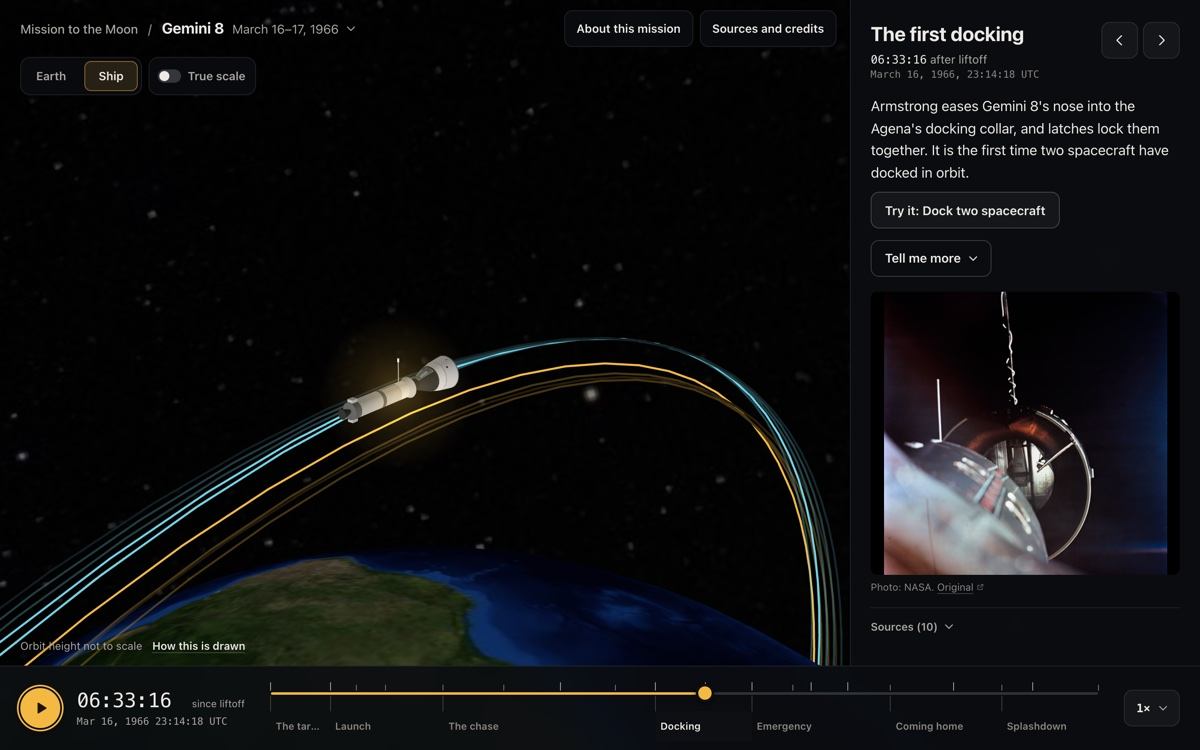
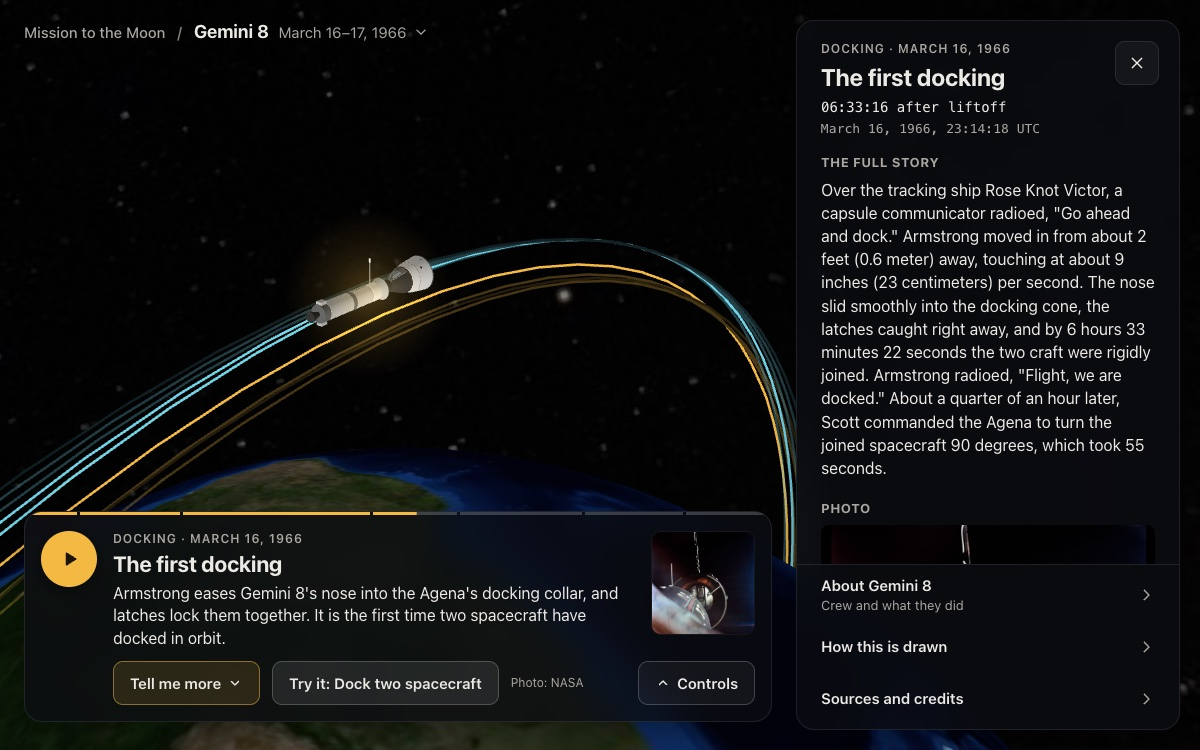
Retake the README screenshots with the new interface
The screenshots in the README still showed the interface as it was before
the moment card: the event sheet at the side, the timeline bar, and the
view buttons always on the screen. All seven are taken again from the
current site, at the same sizes.

The four in "About" now show the four states of a flight: the landing
with the card as it opens (the large one), the first screen, "Tell me
more" open on Gemini 8's docking, and Controls open on Apollo 11's way to
the Moon. The first screen takes the place of the liftoff picture. The
three under "Things to try" show the same screens as before, in the
sheet's current layout.

Changed region(s): [[0.0, 0.0307, 0.9867, 1.0], [0.0, 0.0307, 0.3392, 0.1227], [0.925, 0.92, 0.9558, 0.9507]]

diff --git a/README.md b/README.md
@@ -16,7 +16,7 @@
   <a href="DEVELOPING.md">Developing</a>
 </p>
 
-<p align="center"><a href="https://moon.ryanquellhorst.com/?mission=apollo-11&amp;t=102:45:40&amp;view=spacecraft"><img src="docs/images/apollo-11-landing.jpg" alt="Apollo 11 at the moment of landing: the lunar module Eagle sits on the Moon at the end of its descent path, the clock reads 102:45:40 since liftoff, and the card beside it carries the recording and the words of &quot;The Eagle has landed&quot;." width="888"></a></p>
+<p align="center"><a href="https://moon.ryanquellhorst.com/?mission=apollo-11&amp;t=102:45:40&amp;view=spacecraft"><img src="docs/images/apollo-11-landing.jpg" alt="Apollo 11 at the moment of landing: the lunar module Eagle sits on the Moon at the end of its descent path, and the card under it tells the moment, &quot;The Eagle has landed&quot;, with a button to hear the recording and the doors to Tell me more and Controls." width="888"></a></p>
 
 ## About
 
@@ -46,9 +46,9 @@ flight you haven't flown. **More to explore** adds one pick from each shelf: tha
 something to try, and something to explore.
 
 <p align="center">
-  <img src="docs/images/apollo-11-liftoff.jpg" alt="Apollo 11 two minutes after liftoff, with the Saturn V climbing away from Florida." width="32%">
-  <img src="docs/images/apollo-11-journey.jpg" alt="Apollo 11 sixty hours in, with the whole path from Earth to the Moon and back in view." width="32%">
-  <img src="docs/images/gemini-8-docking.jpg" alt="Gemini 8 docked to its Agena target above Earth, the first docking in orbit." width="32%">
+  <img src="docs/images/apollo-11-welcome.jpg" alt="The first screen: &quot;Ride along on Apollo 11&quot;, with Take the tour, Explore on my own, and All missions, beside the flight's path from Earth to the Moon." width="32%">
+  <img src="docs/images/gemini-8-docking.jpg" alt="Gemini 8 docked to its Agena target above Earth, with Tell me more open beside it: the full story of the first docking in orbit." width="32%">
+  <img src="docs/images/apollo-11-journey.jpg" alt="Apollo 11 sixty hours in, with the whole path from Earth to the Moon and back in view and Controls open: the timeline, the clock, and what the camera follows." width="32%">
 </p>
 
 ## The flights
